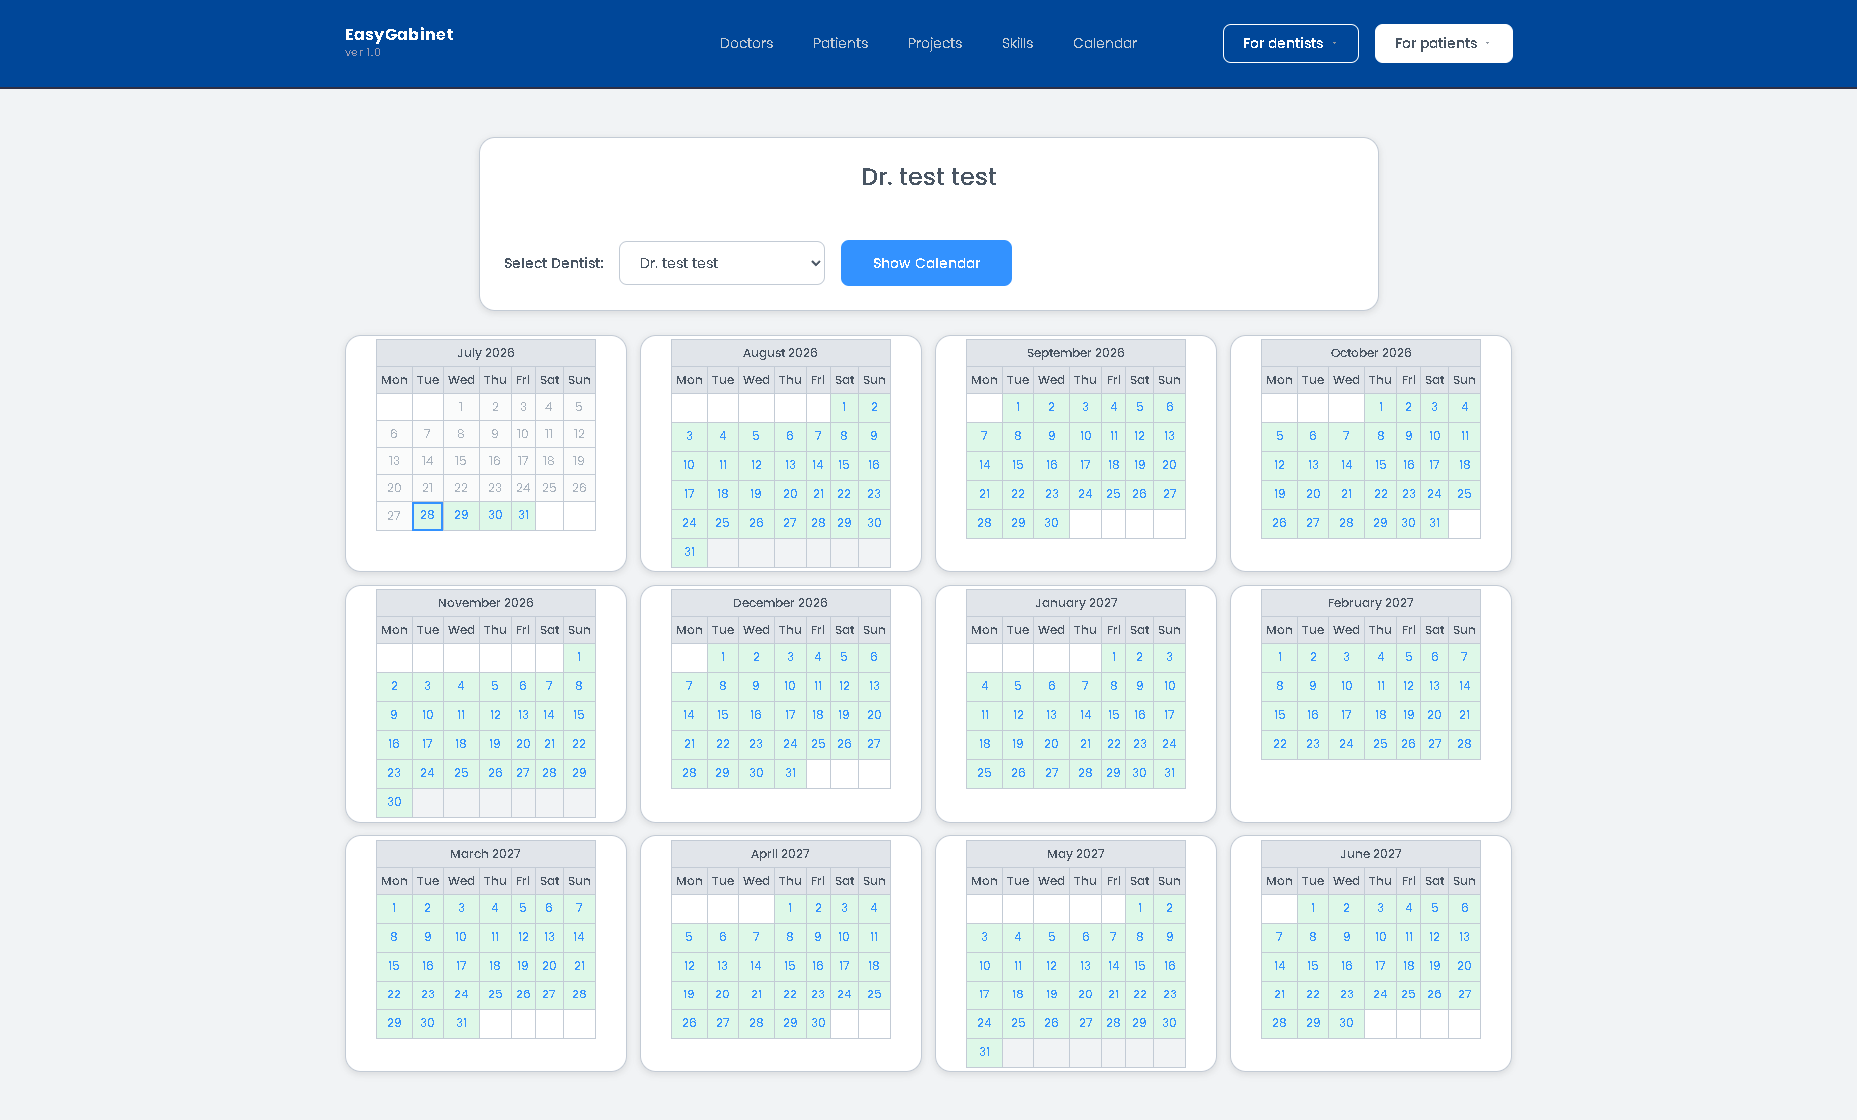
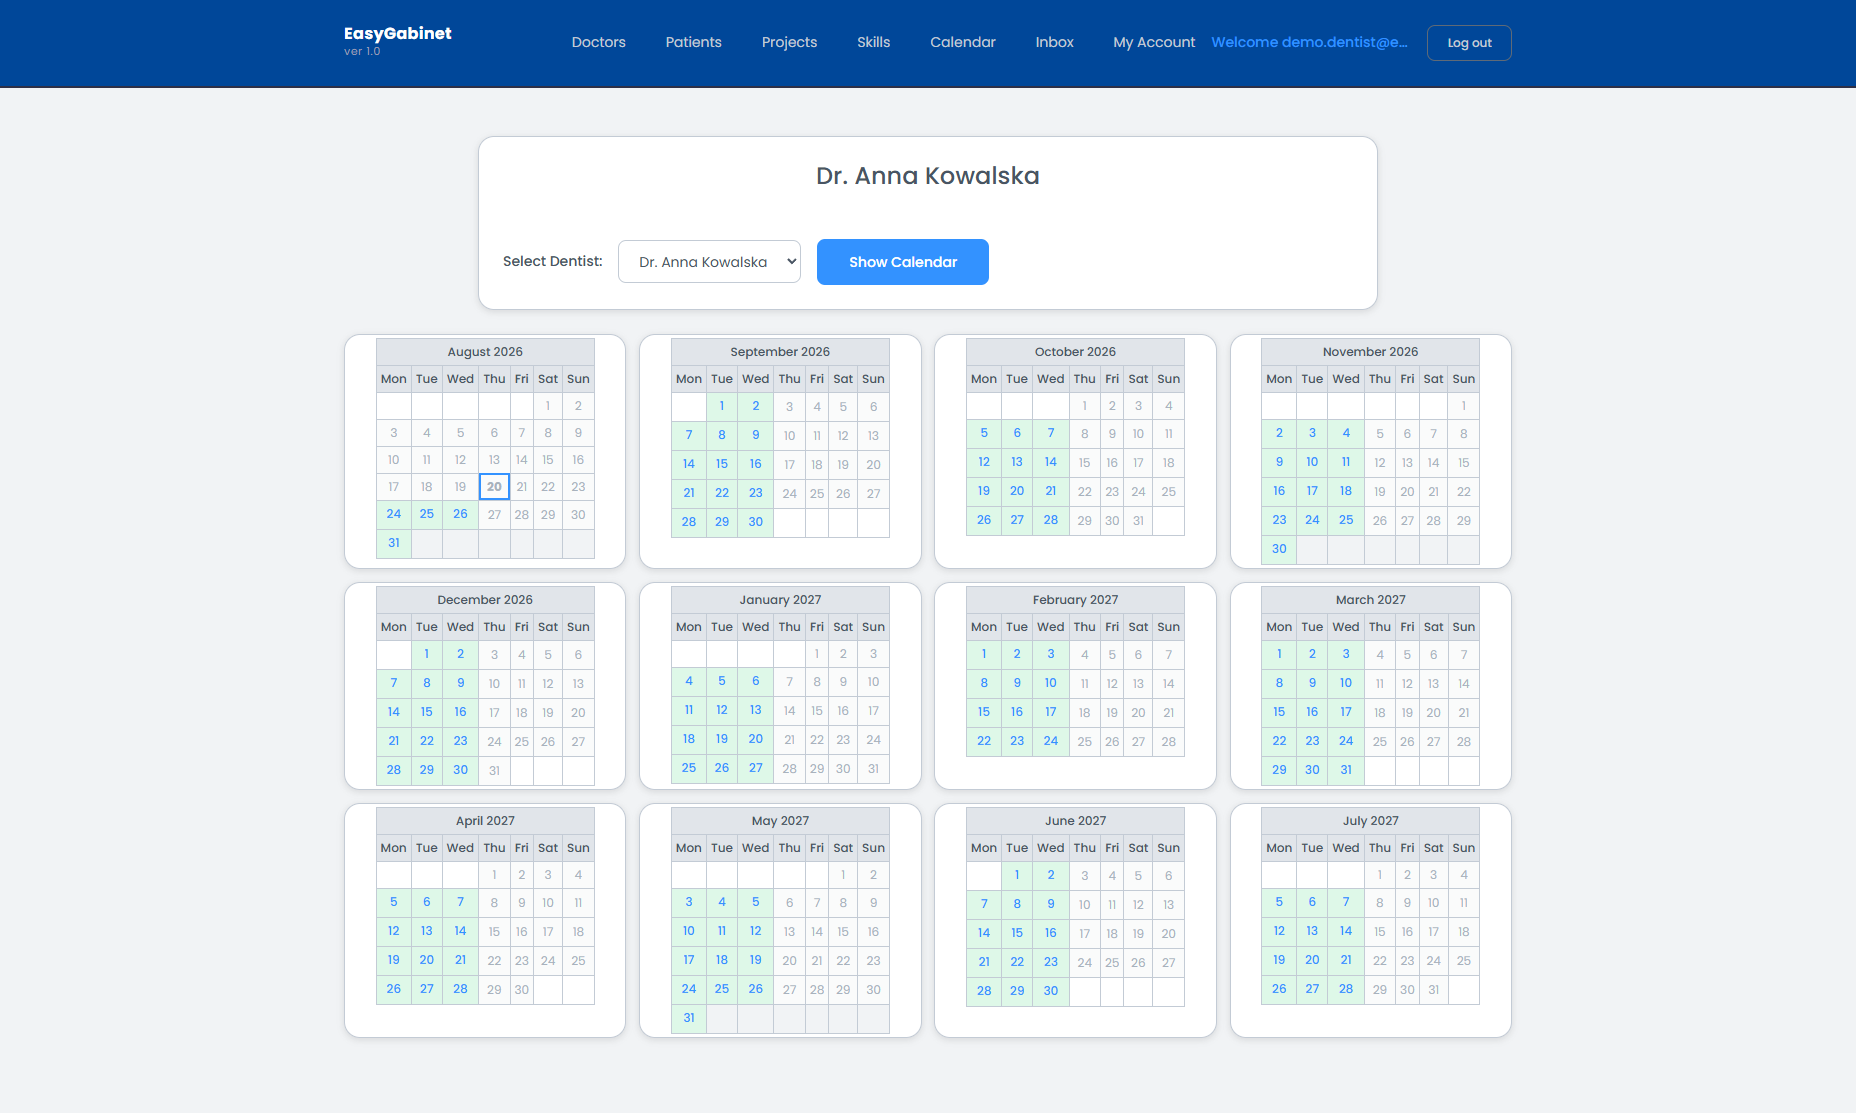
Refresh README screenshots and fix didn't-occur status label

diff --git a/appointments/migrations/0005_alter_appointment_status.py b/appointments/migrations/0005_alter_appointment_status.py
@@ -1,0 +1,18 @@
+# Generated by Django 5.2 on 2026-08-20 11:44
+
+from django.db import migrations, models
+
+
+class Migration(migrations.Migration):
+
+    dependencies = [
+        ('appointments', '0004_appointment_confirmed_at'),
+    ]
+
+    operations = [
+        migrations.AlterField(
+            model_name='appointment',
+            name='status',
+            field=models.CharField(choices=[('available', 'Available'), ('booked', 'Booked'), ('passed', 'Passed'), ('completed', 'Completed'), ('did_not_occur', "Didn't show up, no notification"), ('cancelled', 'Cancelled')], default='available', max_length=20),
+        ),
+    ]

diff --git a/README.md b/README.md
@@ -16,24 +16,33 @@ EasyGabinet lets dental patients book, manage, and track their appointments onli
 
 ## Screenshots
 
-**Home page**
-![Home page (logged out)](docs/screenshots/main_logged_out.png)
+
+**Home page (logged in)**
 ![Home page (logged in)](docs/screenshots/main.png)
 
-**Login**
-![Dentist login](docs/screenshots/login_page.png)
+**Patient area**
+![Home page (logged out)](docs/screenshots/patient_site.png)
+
+**Registration**
+![New patient registration](docs/screenshots/register.png)
 
 **Calendar**
-![Calendar view](docs/screenshots/calendar.png)
+![Live calendar availability](docs/screenshots/calendar.png)
 
 **Patient account**
-![Patient account and treatment history](docs/screenshots/patients_account.png)
+![Patient account and treatment history](docs/screenshots/patient_account.png)
+
+**Dentist account**
+![Dentist account, skills and projects](docs/screenshots/dentist.png)
 
 **Messaging**
-![Inbox](docs/screenshots/messages.png)
+![Direct patient–dentist messaging](docs/screenshots/inbox.png)
+
+**Schedule management**
+![Dentist schedule management](docs/screenshots/manage_schedule.png)
 
 **Dentist project page**
-![Project page](docs/screenshots/project_page.png)
+![Project page](docs/screenshots/projects.png)
 
 ## Features
 
